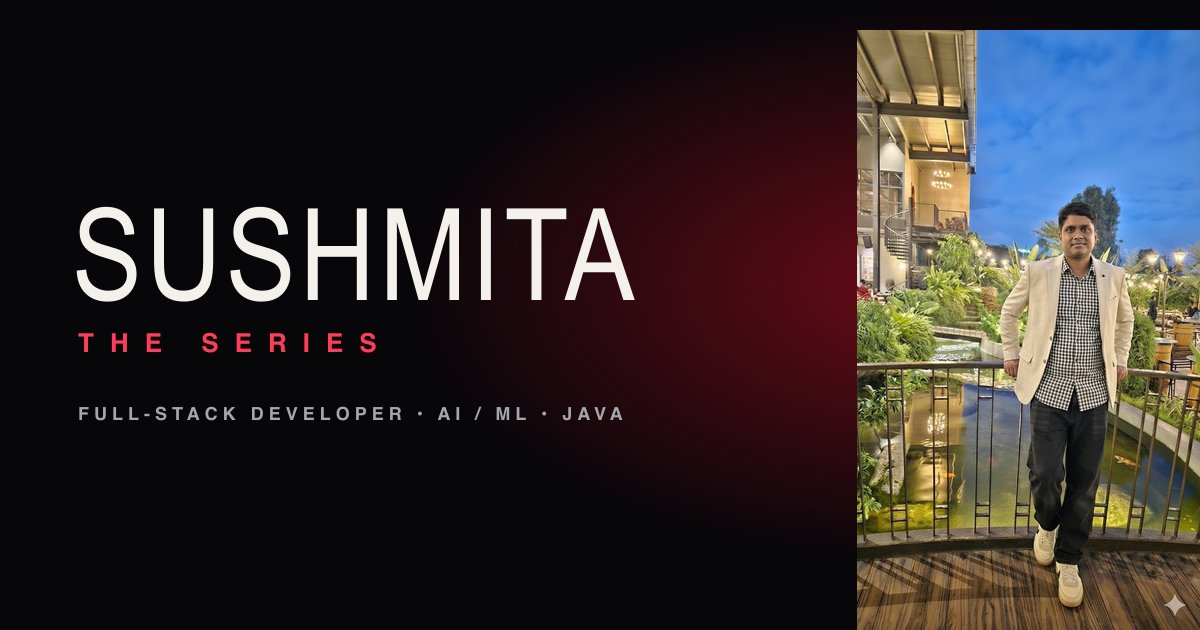
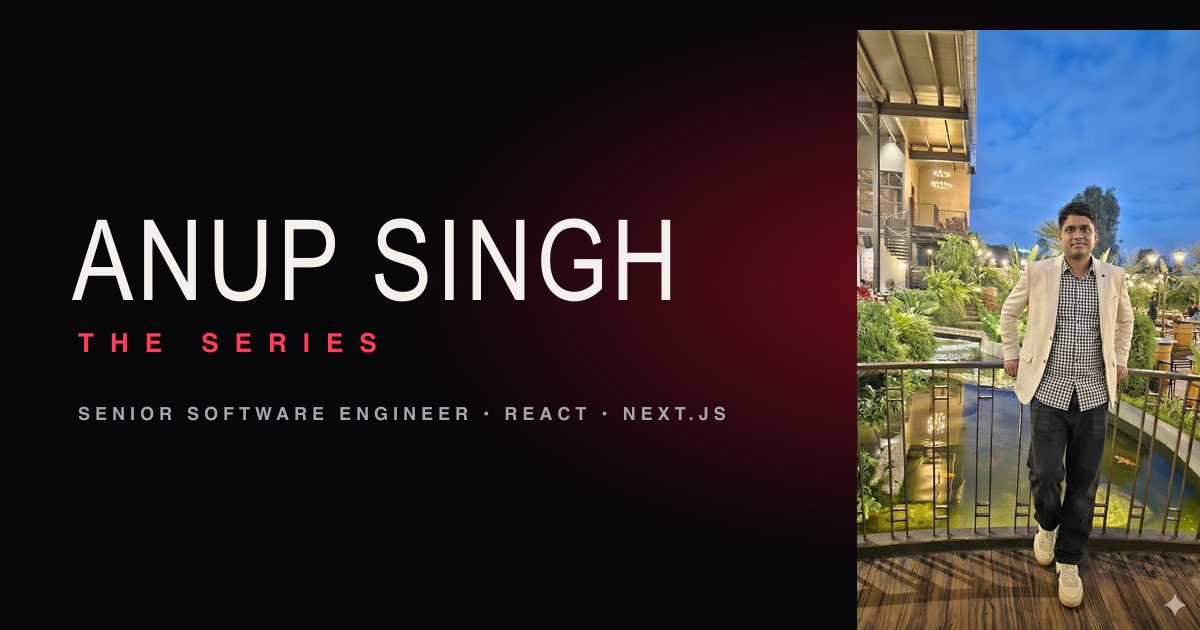
Fix the share preview: it still carried the template author's name
Sharing https://anup-singh.in/ produced a card reading "SUSHMITA — THE
SERIES". The page title and og:title were already right; the name was
baked into public/assets/og-image.jpg by scripts/build-images.mjs, which
still drew the template's name and tagline.

- Redraw the share image as "ANUP SINGH / THE SERIES / Senior Software
  Engineer • React • Next.js" and fix the script that generates it.
- Point og:image and twitter:image at the absolute URL with ?v=2.
  /assets/* is served immutable for a year, so anything that cached the
  old image under the bare URL would keep it; the query string gives
  browsers and share crawlers a URL they have not seen before.
- Add og:url, og:type, og:site_name, the image dimensions and alt text,
  and the Twitter title, description and image tags.
- Replace the favicon. It was still the template's "S"; it is now the
  "A" mark the page itself uses (SeriesMark in Poster.tsx).

Only index.html, favicon.svg and assets/og-image.jpg change in the built
output; every script, stylesheet and portrait is byte-identical to the
current production build.

Platforms cache link previews per page URL, so cards that were already
generated refresh on each platform's own schedule or through its link
debugger.

Changed region(s): [[0.0617, 0.3317, 0.5858, 0.4825], [0.0617, 0.6333, 0.6167, 0.6635]]

diff --git a/index.html b/index.html
@@ -8,8 +8,17 @@
     <meta name="theme-color" content="#07070a" />
     <meta property="og:title" content="Anup Singh — The Series" />
     <meta property="og:description" content="Senior Software Engineer • React &amp; Next.js • Team Lead. Every project is an Original." />
-    <meta property="og:image" content="/assets/og-image.jpg" />
+    <meta property="og:type" content="website" />
+    <meta property="og:url" content="https://anup-singh.in/" />
+    <meta property="og:site_name" content="Anup Singh" />
+    <meta property="og:image" content="https://anup-singh.in/assets/og-image.jpg?v=2" />
+    <meta property="og:image:width" content="1200" />
+    <meta property="og:image:height" content="630" />
+    <meta property="og:image:alt" content="Anup Singh — The Series. Senior Software Engineer, React and Next.js." />
     <meta name="twitter:card" content="summary_large_image" />
+    <meta name="twitter:title" content="Anup Singh — The Series" />
+    <meta name="twitter:description" content="Senior Software Engineer • React &amp; Next.js • Team Lead. Every project is an Original." />
+    <meta name="twitter:image" content="https://anup-singh.in/assets/og-image.jpg?v=2" />
     <link rel="icon" type="image/svg+xml" href="/favicon.svg" />
     <link rel="preconnect" href="https://fonts.googleapis.com" />
     <link rel="preconnect" href="https://fonts.gstatic.com" crossorigin />
